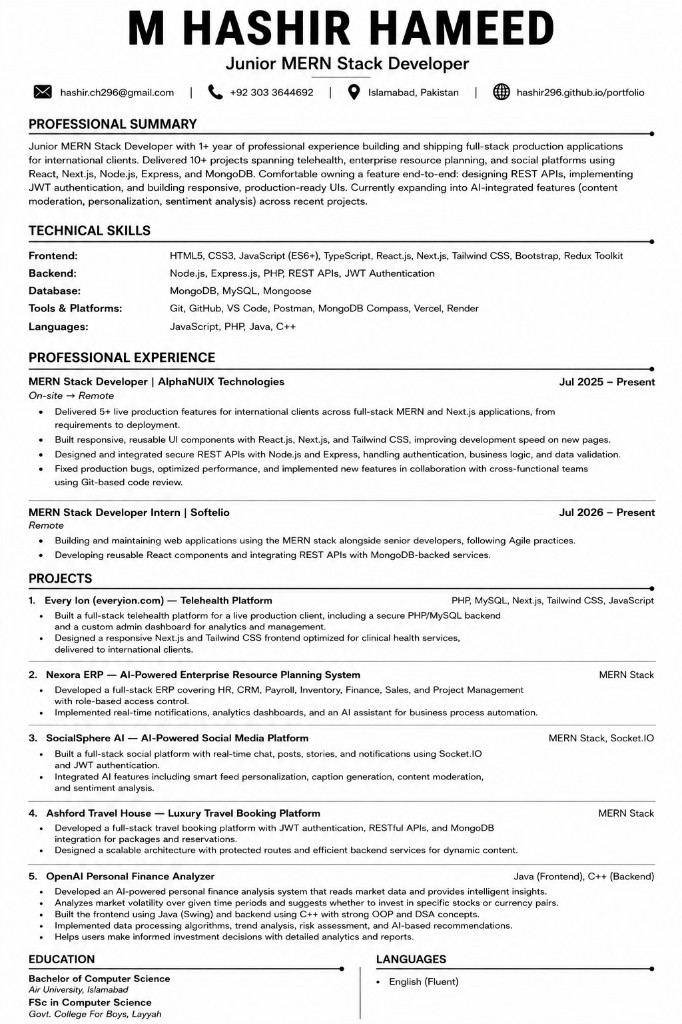
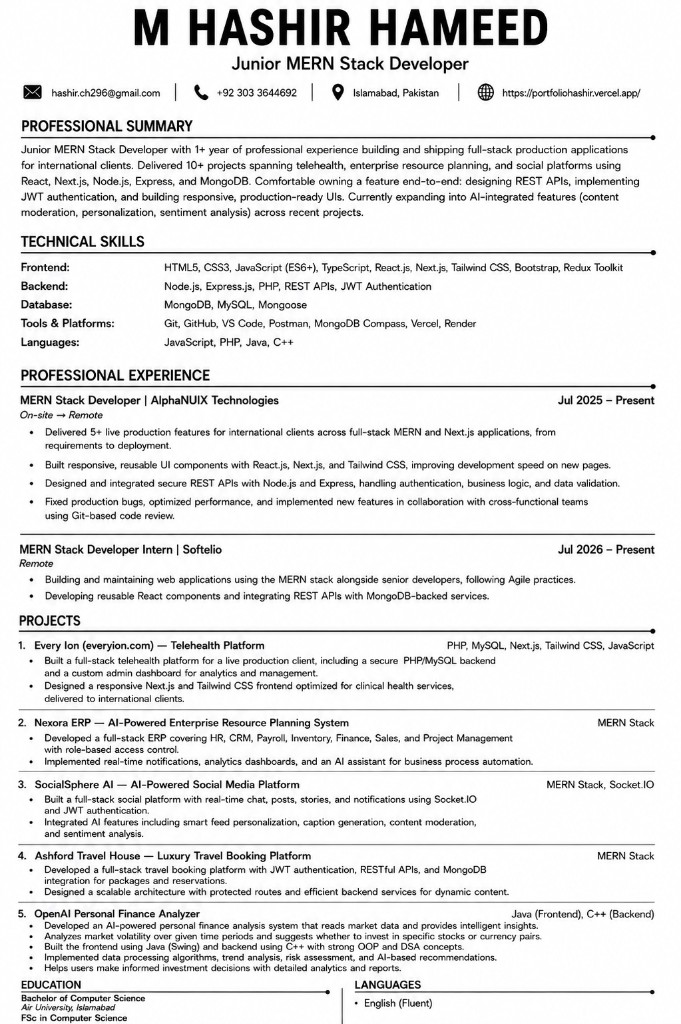
Update downloadable CV and live portfolio URL.

Changed region(s): [[0.0308, 0.0, 0.9559, 1.0], [0.9251, 0.9375, 0.9559, 0.9688]]

diff --git a/src/data/profile.ts b/src/data/profile.ts
@@ -11,7 +11,7 @@ export const profile = {
   phoneHref: "+923033644692",
   github: "https://github.com/Hashir296",
   githubHandle: "Hashir296",
-  portfolio: "https://hashir296.github.io/portfolio/",
+  portfolio: "https://portfoliohashir.vercel.app/",
   socials: {
     github: "https://github.com/Hashir296",
     linkedin: "https://www.linkedin.com/in/m-hashir-hameed-0ab349325/",
